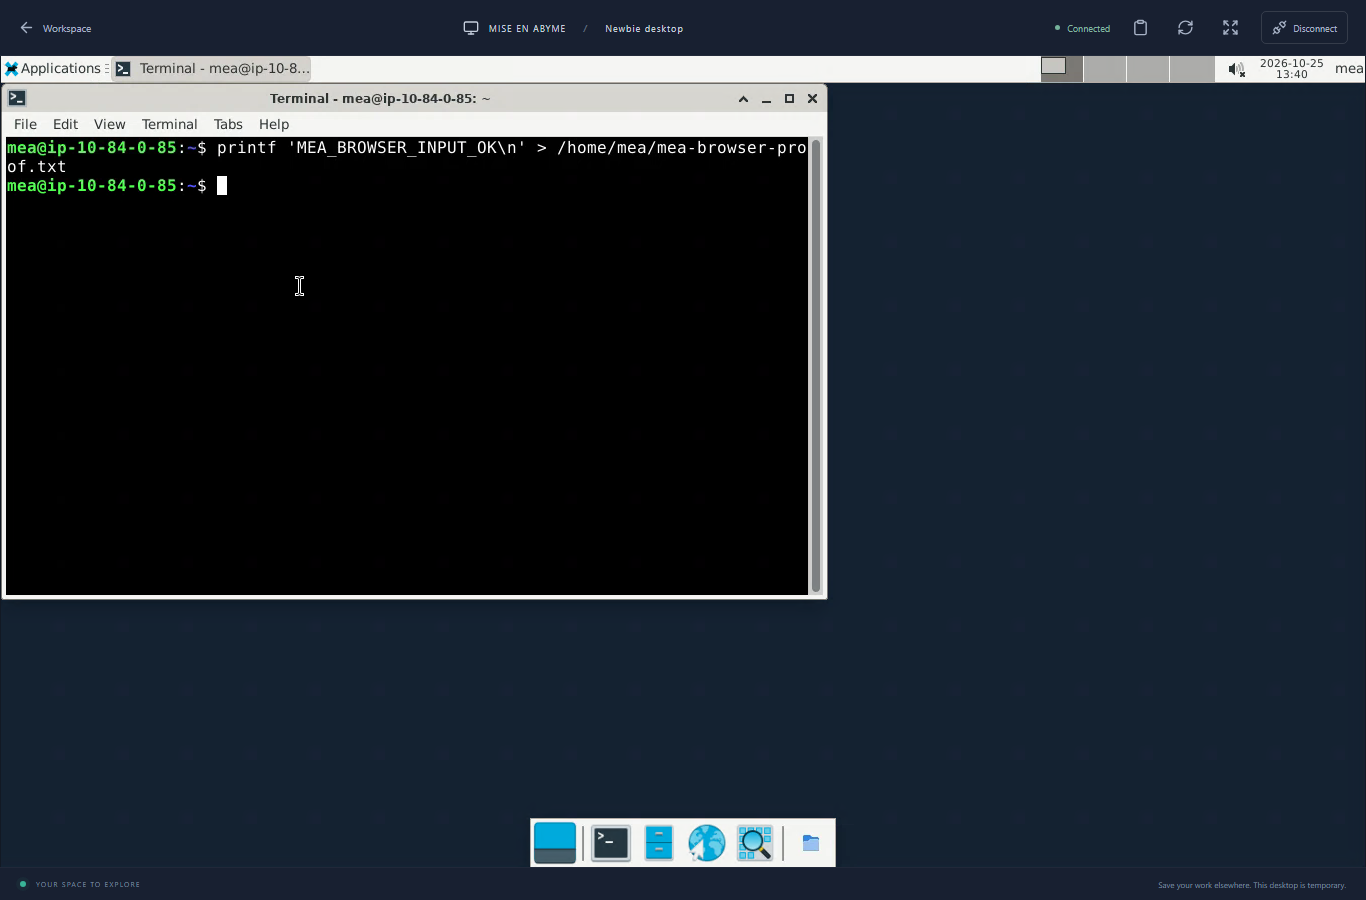
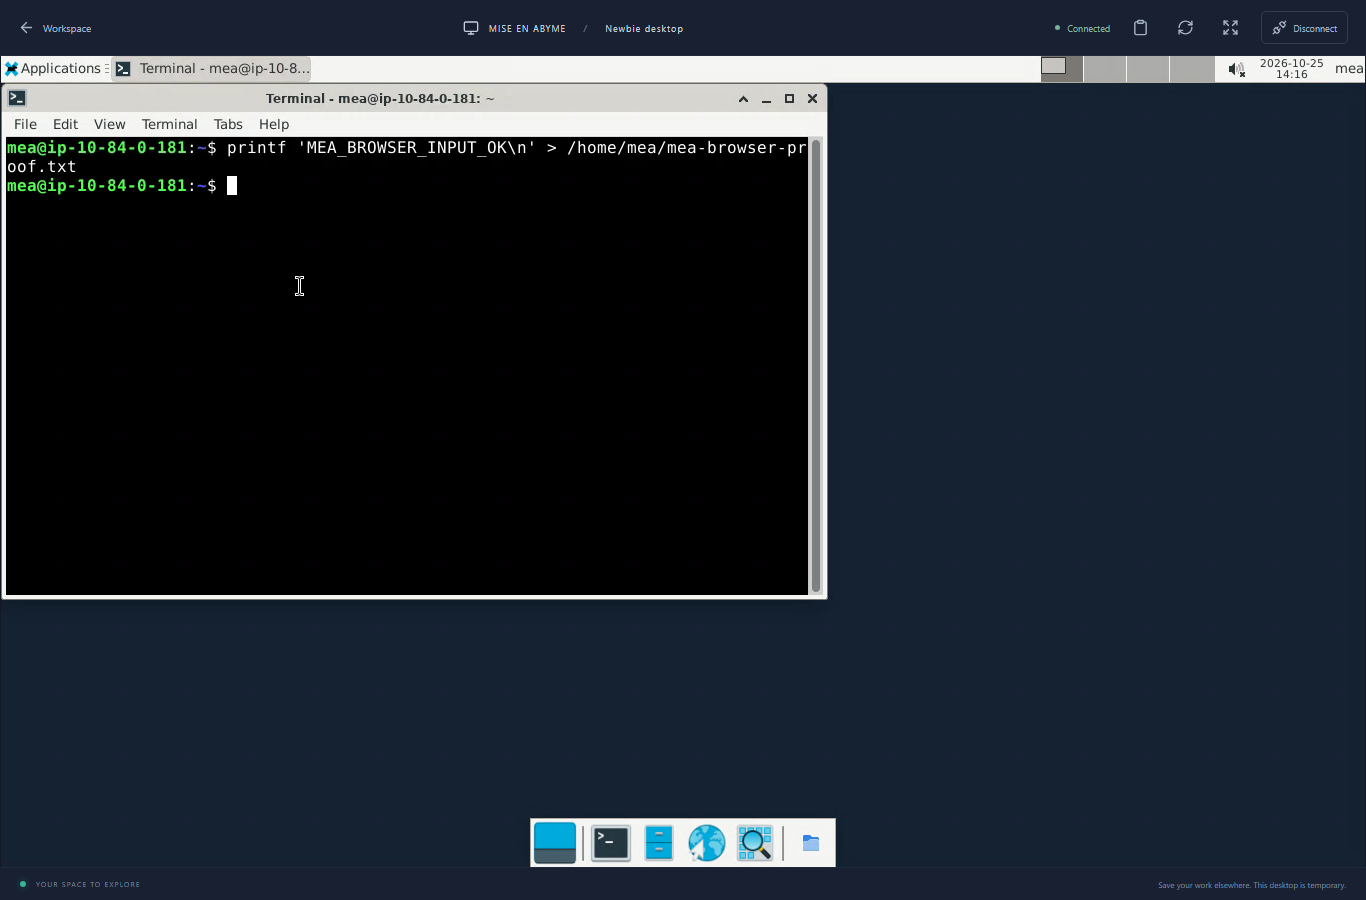
Apply shared timeout settings across browser, Guacamole and EC2 backstops

Changed region(s): [[0.123, 0.1556, 0.5842, 0.2178], [0.1845, 0.0933, 0.3382, 0.1244]]

diff --git a/mvp/internal/cloud/aws.go b/mvp/internal/cloud/aws.go
@@ -15,10 +15,12 @@ import (
 	"github.com/aws/aws-sdk-go-v2/service/ssm"
 	"github.com/aws/smithy-go"
 	"os"
+	"strconv"
 	"strings"
 )
 
 type AWS struct {
+	IdleSeconds, LifetimeSeconds                                       int
 	SSM                                                                *ssm.Client
 	EC2                                                                *ec2.Client
 	Secrets                                                            *secretsmanager.Client
@@ -78,8 +80,11 @@ PY
 rm -f /run/mea/credential.json
 systemctl enable --now xrdp
 touch /run/mea/ready
-shutdown -h +240
-`, a.Region, a.secret(id))
+install -d -m 700 /etc/mea
+echo %d > /etc/mea/idle-ms
+sed -i 's/value>=1200000/value>=%d/' /usr/local/sbin/mea-session-monitor
+shutdown -h +%d
+`, a.Region, a.secret(id), a.IdleSeconds*1000, a.IdleSeconds*1000, (a.LifetimeSeconds+59)/60)
 	tags := []ec2types.Tag{{Key: aws.String("Name"), Value: aws.String("MEA Newbie " + id)}, {Key: aws.String("Project"), Value: aws.String("MiseEnAbyme")}, {Key: aws.String("MEAEnvironment"), Value: aws.String(a.Prefix)}, {Key: aws.String("MEADesktop"), Value: aws.String(id)}, {Key: aws.String("ManagedBy"), Value: aws.String("mea-worker")}}
 	out, e := a.EC2.RunInstances(ctx, &ec2.RunInstancesInput{ImageId: aws.String(a.AMI), InstanceType: ec2types.InstanceType(a.InstanceType), MinCount: aws.Int32(1), MaxCount: aws.Int32(1), ClientToken: aws.String(id), IamInstanceProfile: &ec2types.IamInstanceProfileSpecification{Name: aws.String(a.Profile)}, NetworkInterfaces: []ec2types.InstanceNetworkInterfaceSpecification{{DeviceIndex: aws.Int32(0), AssociatePublicIpAddress: aws.Bool(true), SubnetId: aws.String(a.Subnet), Groups: []string{a.Group}, DeleteOnTermination: aws.Bool(true)}}, MetadataOptions: &ec2types.InstanceMetadataOptionsRequest{HttpTokens: ec2types.HttpTokensStateRequired, HttpPutResponseHopLimit: aws.Int32(1), HttpEndpoint: ec2types.InstanceMetadataEndpointStateEnabled}, UserData: aws.String(base64.StdEncoding.EncodeToString([]byte(script))), InstanceInitiatedShutdownBehavior: ec2types.ShutdownBehaviorTerminate, CreditSpecification: &ec2types.CreditSpecificationRequest{CpuCredits: aws.String("standard")}, BlockDeviceMappings: []ec2types.BlockDeviceMapping{{DeviceName: aws.String("/dev/sda1"), Ebs: &ec2types.EbsBlockDevice{VolumeSize: aws.Int32(12), VolumeType: ec2types.VolumeTypeGp3, Encrypted: aws.Bool(true), DeleteOnTermination: aws.Bool(true)}}}, TagSpecifications: []ec2types.TagSpecification{{ResourceType: ec2types.ResourceTypeInstance, Tags: tags}, {ResourceType: ec2types.ResourceTypeVolume, Tags: tags}}})
 	if e != nil {
@@ -130,7 +135,15 @@ func (a *AWS) Terminate(ctx context.Context, id string) error {
 	return e
 }
 func NewAWS(cfg aws.Config) *AWS {
-	return &AWS{EC2: ec2.NewFromConfig(cfg), SSM: ssm.NewFromConfig(cfg), Secrets: secretsmanager.NewFromConfig(cfg), Prefix: os.Getenv("RESOURCE_PREFIX"), Region: cfg.Region, Account: os.Getenv("ACCOUNT_ID"), AMI: os.Getenv("DESKTOP_AMI"), Subnet: os.Getenv("DESKTOP_SUBNET"), Group: os.Getenv("DESKTOP_SG"), Profile: os.Getenv("DESKTOP_PROFILE"), InstanceType: os.Getenv("DESKTOP_INSTANCE_TYPE")}
+	return &AWS{IdleSeconds: setting("IDLE_SECONDS", 1200), LifetimeSeconds: setting("LIFETIME_SECONDS", 14400), EC2: ec2.NewFromConfig(cfg), SSM: ssm.NewFromConfig(cfg), Secrets: secretsmanager.NewFromConfig(cfg), Prefix: os.Getenv("RESOURCE_PREFIX"), Region: cfg.Region, Account: os.Getenv("ACCOUNT_ID"), AMI: os.Getenv("DESKTOP_AMI"), Subnet: os.Getenv("DESKTOP_SUBNET"), Group: os.Getenv("DESKTOP_SG"), Profile: os.Getenv("DESKTOP_PROFILE"), InstanceType: os.Getenv("DESKTOP_INSTANCE_TYPE")}
+}
+
+func setting(name string, fallback int) int {
+	n, e := strconv.Atoi(os.Getenv(name))
+	if e != nil || n <= 0 {
+		return fallback
+	}
+	return n
 }
 
 var _ Compute = (*AWS)(nil)

diff --git a/mvp/guacamole/src/main/java/me/miseenaby/Lifecycle.java b/mvp/guacamole/src/main/java/me/miseenaby/Lifecycle.java
@@ -11,6 +11,7 @@ import org.apache.guacamole.net.event.listener.Listener;
  * The bridge supplies identity, JDBC remains the connection permission registry.
  */
 public class Lifecycle implements Listener {
+ private final int idleSeconds=Integer.parseInt(System.getenv().getOrDefault("MEA_IDLE_SECONDS","1200"));
  private final ConcurrentMap<String,GuacamoleTunnel> tunnels=new ConcurrentHashMap<>();
  private final ScheduledExecutorService scheduler=Executors.newSingleThreadScheduledExecutor(r->{Thread t=new Thread(r,"mea-lease-watch");t.setDaemon(true);return t;});
  public Lifecycle(){scheduler.scheduleWithFixedDelay(this::check,5,5,TimeUnit.SECONDS);}
@@ -44,9 +45,9 @@ public class Lifecycle implements Listener {
    boolean allowed=false;
    try(Connection c=db();PreparedStatement p=c.prepareStatement(
     "SELECT 1 FROM mea.desktop_sessions ds JOIN mea.desktops d ON d.id=ds.desktop_id JOIN mea.sessions s ON s.hash=ds.web_session_hash JOIN mea.users u ON u.id=d.user_id "+
-    "WHERE ds.tunnel_id=? AND ds.closed_at IS NULL AND d.state='ready' AND d.expires_at>now() AND d.last_activity>now()-interval '20 minutes' "+
+    "WHERE ds.tunnel_id=? AND ds.closed_at IS NULL AND d.state='ready' AND d.expires_at>now() AND d.last_activity>now()-(? * interval '1 second') "+
     "AND (d.last_heartbeat IS NULL OR d.last_heartbeat>now()-interval '90 seconds') AND NOT u.disabled AND s.revoked_at IS NULL AND s.expires_at>now()")){
-    p.setString(1,entry.getKey());try(ResultSet rs=p.executeQuery()){allowed=rs.next();}
+    p.setString(1,entry.getKey());p.setInt(2,idleSeconds);try(ResultSet rs=p.executeQuery()){allowed=rs.next();}
    }catch(SQLException ignored){}
    if(!allowed){try{entry.getValue().close();}catch(GuacamoleException ignored){}tunnels.remove(entry.getKey());closeRecord(entry.getKey());}
   }

diff --git a/mvp/internal/api/api.go b/mvp/internal/api/api.go
@@ -22,9 +22,9 @@ import (
 )
 
 type Config struct {
-	Origin, GuacKey                                 string
-	Secure, RequireVerification, Local              bool
-	Cap, IdleSeconds, GraceSeconds, LifetimeSeconds int
+	Origin, GuacKey                                                 string
+	Secure, RequireVerification, Local                              bool
+	Cap, IdleSeconds, WarningSeconds, GraceSeconds, LifetimeSeconds int
 }
 type Server struct {
 	Store  *store.Store
@@ -146,7 +146,7 @@ func (s *Server) route(w http.ResponseWriter, r *http.Request) error {
 	switch path {
 	case "/api/me":
 		if r.Method == "GET" {
-			write(w, 200, map[string]any{"user": a.User, "csrf": a.CSRF, "idleSeconds": s.Config.IdleSeconds, "warningSeconds": s.Config.IdleSeconds - 300, "graceSeconds": s.Config.GraceSeconds})
+			write(w, 200, map[string]any{"user": a.User, "csrf": a.CSRF, "idleSeconds": s.Config.IdleSeconds, "warningSeconds": s.Config.WarningSeconds, "graceSeconds": s.Config.GraceSeconds})
 			return nil
 		}
 	case "/api/logout":

diff --git a/mvp/cmd/api/main.go b/mvp/cmd/api/main.go
@@ -84,7 +84,7 @@ func main() {
 		}
 		return
 	}
-	c := api.Config{Origin: env("APP_ORIGIN", "http://localhost:5173"), GuacKey: key, Secure: env("SECURE_COOKIES", "true") == "true", RequireVerification: env("REQUIRE_VERIFICATION", "true") == "true", Local: env("LOCAL_MODE", "false") == "true", Cap: number("DESKTOP_CAP", 2), IdleSeconds: number("IDLE_SECONDS", 1200), GraceSeconds: number("GRACE_SECONDS", 300), LifetimeSeconds: number("LIFETIME_SECONDS", 14400)}
+	c := api.Config{Origin: env("APP_ORIGIN", "http://localhost:5173"), GuacKey: key, Secure: env("SECURE_COOKIES", "true") == "true", RequireVerification: env("REQUIRE_VERIFICATION", "true") == "true", Local: env("LOCAL_MODE", "false") == "true", Cap: number("DESKTOP_CAP", 2), IdleSeconds: number("IDLE_SECONDS", 1200), WarningSeconds: number("WARNING_SECONDS", 900), GraceSeconds: number("GRACE_SECONDS", 300), LifetimeSeconds: number("LIFETIME_SECONDS", 14400)}
 	if c.Local {
 		b, e := os.ReadFile(env("GUAC_SCHEMA", "/schema/guacamole.sql"))
 		if e != nil {

diff --git a/mvp/docs/DEPLOYMENT_REPORT.md b/mvp/docs/DEPLOYMENT_REPORT.md
@@ -11,7 +11,7 @@ Golden image: ami-0964ca3ff232953a2.
 
 ## Performed against real AWS
 
-The final automated browser run passed at 2026-10-25 13:45:23 UTC.
+The final automated browser run passed at 2026-10-25 21:21:22 UTC.
 Complete timestamped evidence: verification/live-aws.json.
 
 - Registered two separate accounts through the deployed React website.
@@ -21,16 +21,16 @@ Complete timestamped evidence: verification/live-aws.json.
 - Confirmed concurrent create requests returned one desktop UUID.
 - Confirmed User B received 404 for User A's connect, activity, disconnect and
   destroy endpoints.
-- Provisioned EC2 i-0412595dd052a62a1 from the golden AMI; one JDBC READ permission.
+- Provisioned EC2 i-0af9107bbaa82482c from the golden AMI; one JDBC READ permission.
 - Displayed a real Ubuntu XFCE desktop through Guacamole WebSocket inside MEA.
 - Sent mouse and keyboard events; terminal input created
   /home/mea/mea-browser-proof.txt. SSM read it back as MEA_BROWSER_INPUT_OK.
 - Resized the browser desktop and captured the result.
 - Disconnected, advanced the test desktop's server idle timestamp, and allowed
   the normal watchdog to reconcile it.
-- Verified EC2 termination and deletion of EBS vol-01e028f86b0b5dee1.
-- Provisioned a fresh desktop e0c8e23b-0c18-4e7c-b86a-ad646e41f13d on a different
-  instance i-0628727ed31e2714c, rendered it, and connected successfully.
+- Verified EC2 termination and deletion of EBS vol-02a8177e43f7de0d1.
+- Provisioned a fresh desktop c09468bc-31d7-419b-a2a8-887e4459e154 on a different
+  instance i-00f73c2a52ed9fb33, rendered it, and connected successfully.
 - Deactivated test accounts and verified no running/shutting-down desktops,
   no remaining desktop EBS volumes and no desktop credential secrets.
 - Deleted the temporary verification-helper Lambda.
@@ -55,6 +55,10 @@ Screenshots: verification/ubuntu-desktop.png and verification/fresh-desktop.png.
 - React TypeScript/Vite build passed; npm audit reported zero vulnerabilities.
 - Terraform and Packer configurations validated.
 - PowerShell deployment/teardown scripts parsed successfully.
+- A separate local run with real 45-second warning and 60-second idle values
+  verified that API policy, browser warning/expiry and Guacamole's interval query
+  follow configuration. See verification/timeout-policy.json. Docker frontend
+  file polling is enabled for reliable updates on Windows bind mounts.
 
 See verification/go-tests.txt for the saved Go results. Both GitHub Actions
 workflows also passed: backend run 40199358243 and frontend run 40199643505.

diff --git a/mvp/DEPLOY.md b/mvp/DEPLOY.md
@@ -48,7 +48,7 @@ Recreate it from infra/staging.tfvars.example if needed.
 The script verifies the account, checks connected sessions, builds artifacts,
 creates a Terraform plan, applies it, runs migrations and uploads the frontend.
 Use a new Guacamole image tag for extension changes; update guac_image_tag
-and the image build/push command together. Current tag: newbie-v2.
+and use the matching deployment -ImageTag argument. Current tag: newbie-v3.
 
 Do not change Lambda ZIPs while their Terraform plan is applying.
 scripts/package.py sets executable permissions on the Linux bootstrap binary.
@@ -109,8 +109,10 @@ expired sessions, abandoned instances and orphaned connections. Starting and
 explicitly destroying a desktop may wait up to one scheduler interval.
 
 Defaults: warning at 15 minutes without input, termination at 20, five-minute
-disconnect grace, four-hour absolute machine life. The browser/Java/AMI backstop
-currently use these alpha defaults; change them together with Terraform timeouts.
+disconnect grace, four-hour absolute machine life. Terraform warning_seconds,
+idle_seconds, grace_seconds and lifetime_seconds configure the API, browser,
+Guacamole listener and launch-time instance backstop together. Local equivalents
+are LOCAL_WARNING_SECONDS and LOCAL_IDLE_SECONDS in the Compose environment.
 
 No public SSH or RDP. Only Guacamole and readiness-probe Lambdas can reach RDP.
 The private Single-AZ RDS and database Lambdas have no internet route; Fargate
@@ -139,6 +141,11 @@ From mea-web/newbie:
     npm audit --audit-level=high
     $env:MEA_LOCAL_E2E='1'
     npx playwright test --workers=1
+
+To test shortened real-time expiration, set LOCAL_IDLE_SECONDS=60 and
+LOCAL_WARNING_SECONDS=45, recreate the Compose api/guacamole services, and run
+node scripts/timeouts-e2e.mjs from mea-web/newbie. Remove those environment
+overrides and recreate the services to restore the 15/20-minute defaults.
 
 Full AWS test: run ./scripts/test-live.ps1 from mvp. It builds, creates the
 temporary helper, runs the browser test, and deletes the helper in a finally block.
